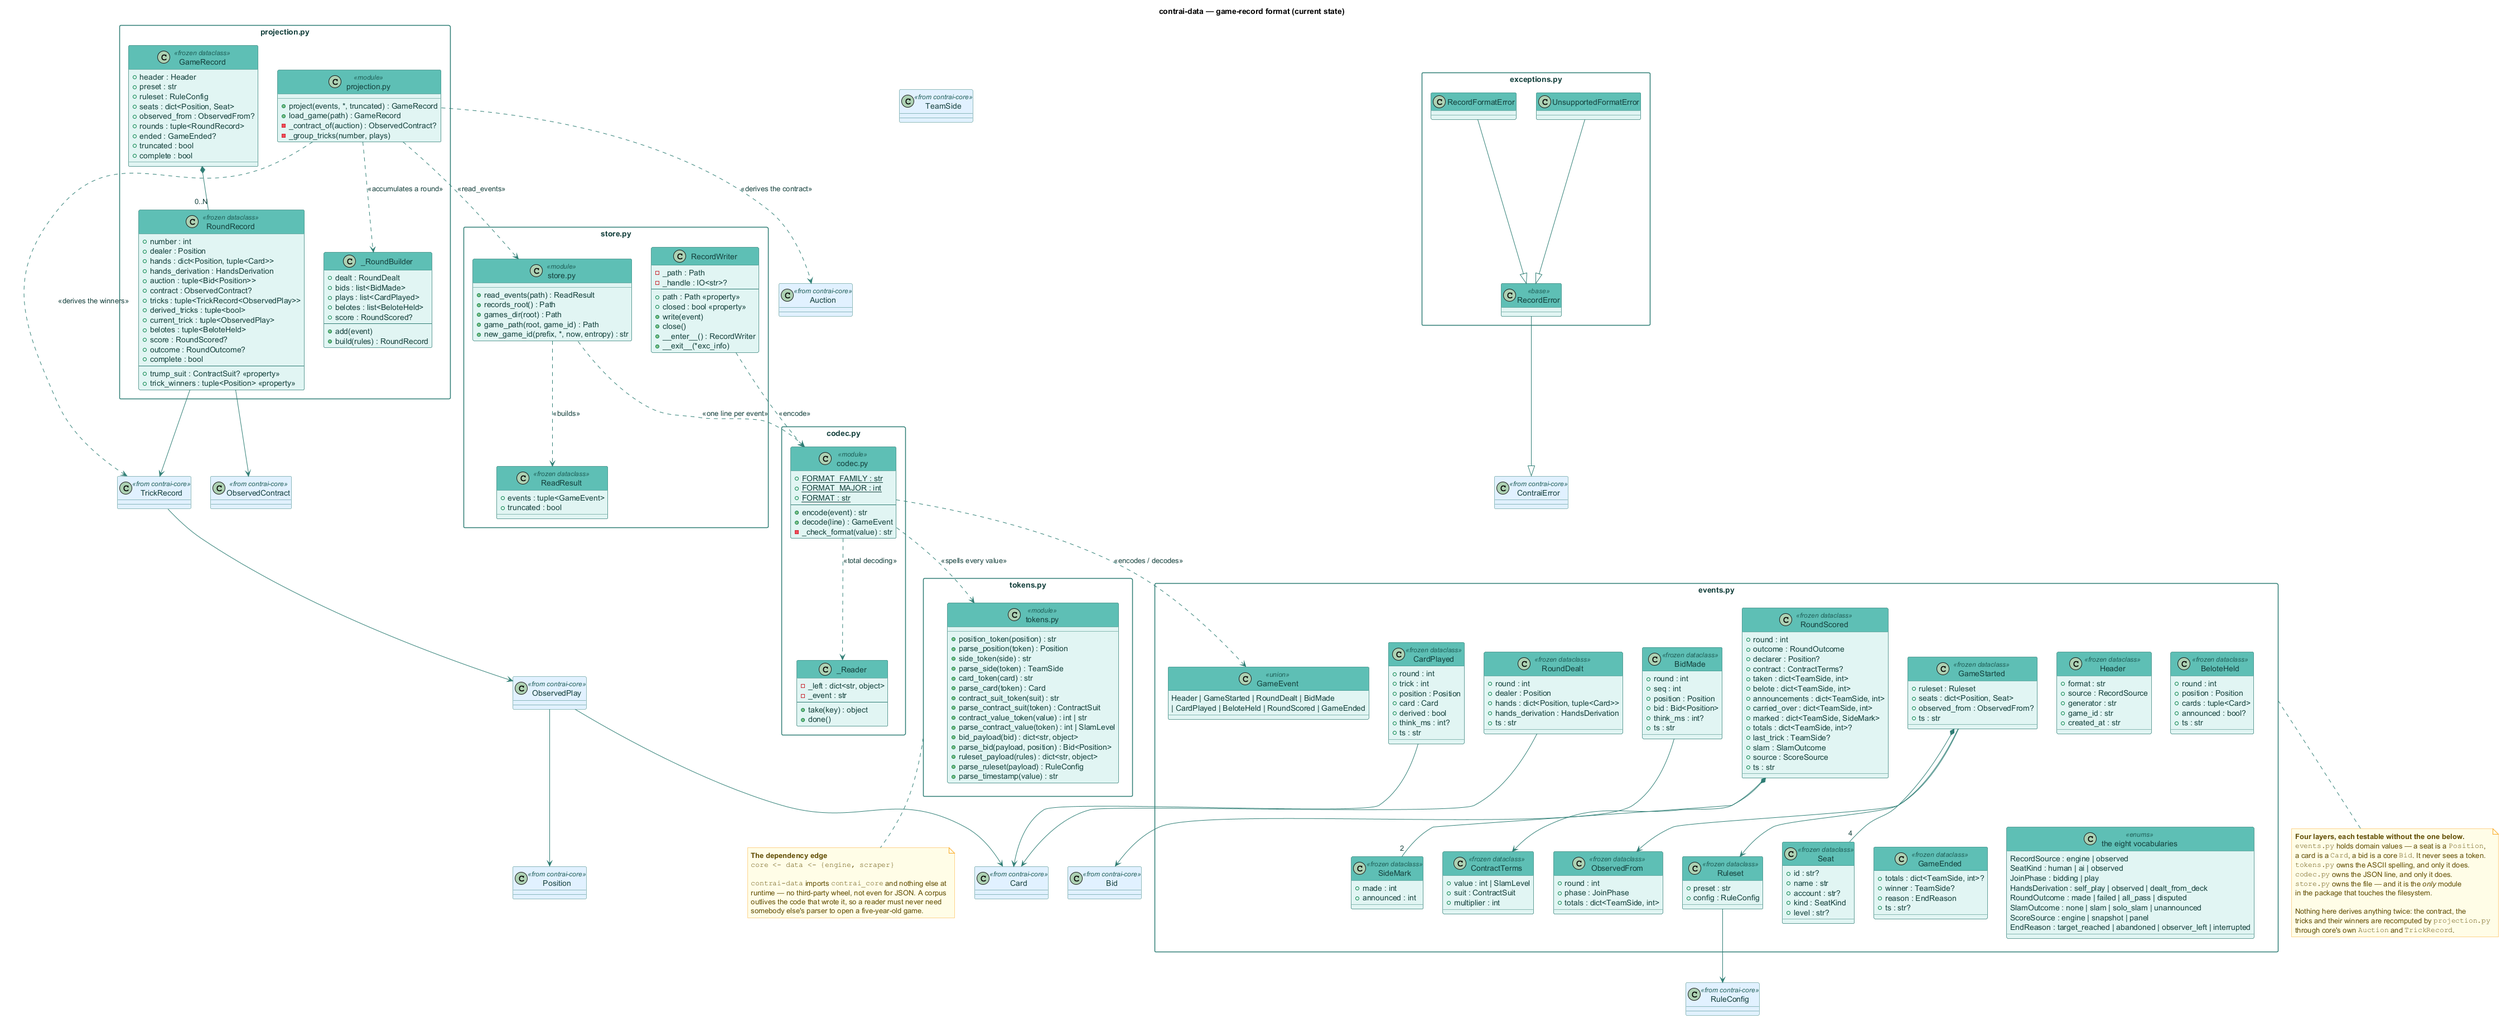
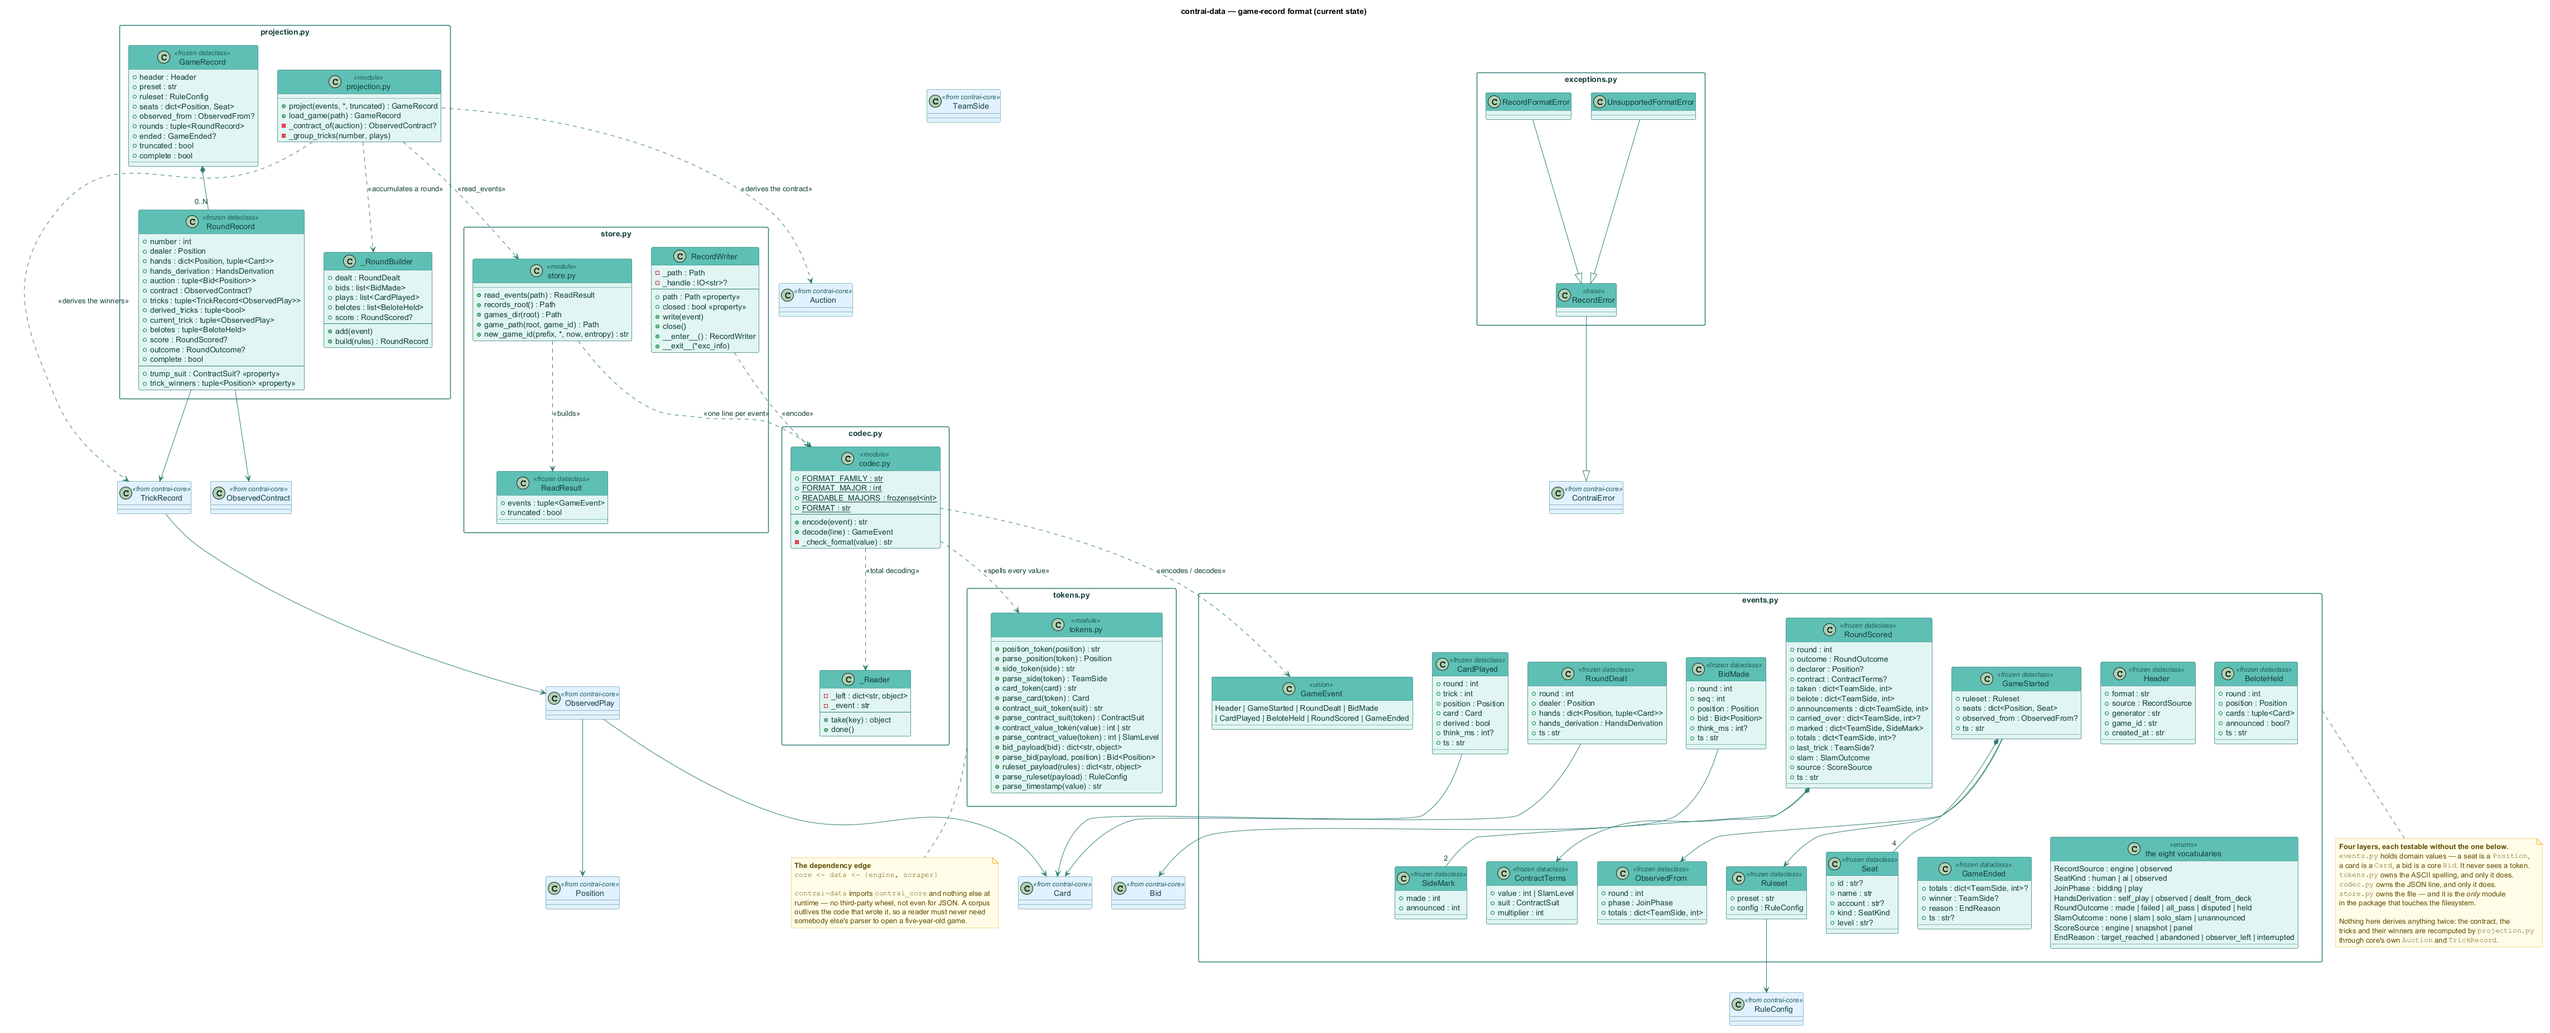
feat(data)!: bump the record format to /2 for held rounds
A held dispute is neither made nor failed, and an observed round can
genuinely not know what it was paid, so a record needs a held outcome
and a carried_over that may be null. Both are things a /1 reader
refuses, and docs/data's policy is that a format change must never read
as damage, so the format moves to contrai-record/2: writers stamp /2,
the reader accepts majors 1 and 2, and an older build handed a /2 file
reports UnsupportedFormatError. The engine recorder now writes the held
outcome through _outcome(score), shared with the verifier, and the pot
each round pays out instead of hard-coded zeros.

BREAKING CHANGE: records are written as contrai-record/2, which builds
from before this change refuse. RoundOutcome gains HELD and
RoundScored.carried_over is Mapping[TeamSide, int] | None - read it
with a None check. recording._outcome takes the RoundScore rather than
contract_made.

diff --git a/packages/contrai-data/src/contrai_data/codec.py b/packages/contrai-data/src/contrai_data/codec.py
@@ -73,9 +73,13 @@ from .tokens import (
 
 #: The format family this build writes and reads.
 FORMAT_FAMILY = "contrai-record"
-#: The major version this build implements. A record naming any other
-#: major is refused outright rather than parsed field by field.
-FORMAT_MAJOR = 1
+#: The major version this build writes.
+FORMAT_MAJOR = 2
+#: Every major this build reads. A ``/1`` record is a ``/2`` record written
+#: before the ``held`` outcome and an unknown carry existed, so it reads
+#: unchanged; any other major is refused outright rather than parsed
+#: field by field.
+READABLE_MAJORS: frozenset[int] = frozenset({1, 2})
 #: The full ``format`` string a header carries.
 FORMAT = f"{FORMAT_FAMILY}/{FORMAT_MAJOR}"
 
@@ -236,7 +240,10 @@ def encode(event: GameEvent) -> str:
                 "taken": _sides(event.taken),
                 "belote": _sides(event.belote),
                 "announcements": _sides(event.announcements),
-                "carried_over": _sides(event.carried_over),
+                "carried_over": (
+                    None if event.carried_over is None
+                    else _sides(event.carried_over)
+                ),
                 "marked": {
                     side_token(side): {"made": mark.made, "announced": mark.announced}
                     for side, mark in event.marked.items()
@@ -769,7 +776,7 @@ def _decode_round_scored(reader: _Reader) -> RoundScored:
         taken=_side_ints(reader.take("taken"), "taken"),
         belote=_side_ints(reader.take("belote"), "belote"),
         announcements=_side_ints(reader.take("announcements"), "announcements"),
-        carried_over=_side_ints(reader.take("carried_over"), "carried_over"),
+        carried_over=_opt_side_ints(reader.take("carried_over"), "carried_over"),
         marked=marked,
         totals=_opt_side_ints(reader.take("totals"), "totals"),
         last_trick=None if raw_last is None else parse_side(raw_last),
@@ -829,7 +836,7 @@ def _check_format(value: object) -> str:
         RecordFormatError: If it is not a ``family/major`` string with a
             numeric major.
         UnsupportedFormatError: If the family is not this one, or the
-            major is not :data:`FORMAT_MAJOR`.
+            major is not in :data:`READABLE_MAJORS`.
     """
 
     if not isinstance(value, str) or value.count("/") != 1:
@@ -847,10 +854,11 @@ def _check_format(value: object) -> str:
             f"Unknown record format {value!r}. This build reads "
             f"{FORMAT_FAMILY!r} records."
         )
-    if int(major) != FORMAT_MAJOR:
+    if int(major) not in READABLE_MAJORS:
+        readable = ", ".join(str(m) for m in sorted(READABLE_MAJORS))
         raise UnsupportedFormatError(
             f"Record format major {major} is not readable by this build, "
-            f"which implements major {FORMAT_MAJOR}."
+            f"which reads majors {readable}."
         )
     return value
 

diff --git a/packages/contrai-data/src/contrai_data/events.py b/packages/contrai-data/src/contrai_data/events.py
@@ -124,12 +124,16 @@ class RoundOutcome(Enum):
         FAILED: It did not.
         ALL_PASS: Nobody bid, so the round was passed out.
         DISPUTED: Two score sources disagreed about the round.
+        HELD: The contract tied and its points went into a pot for the
+            next contract to be won (§7.5). Not DISPUTED, which says two
+            score sources disagreed about a round.
     """
 
     MADE = "made"
     FAILED = "failed"
     ALL_PASS = "all_pass"
     DISPUTED = "disputed"
+    HELD = "held"
 
     def __str__(self) -> str:
         return self.value
@@ -332,7 +336,7 @@ class Header:
     """The record's first line: what this file is and who wrote it.
 
     Attributes:
-        format: ``family/major``, e.g. ``contrai-record/1``. The major
+        format: ``family/major``, e.g. ``contrai-record/2``. The major
             version is what a loader refuses when it cannot read it.
         source: Whether the game was played or watched.
         generator: The producing program and its version.
@@ -565,7 +569,8 @@ class RoundScored:
         taken: Card points each side took.
         belote: Belote points each side marked.
         announcements: Announcement points each side marked.
-        carried_over: Points each side carried in from earlier rounds.
+        carried_over: Points each side was paid from earlier rounds — a
+            held dispute's pot — or ``None`` when the source could not say.
         marked: What each side wrote on the sheet, split made / announced.
         totals: The running score after the round, or ``None`` when the
             source did not report one.
@@ -582,7 +587,7 @@ class RoundScored:
     taken: Mapping[TeamSide, int]
     belote: Mapping[TeamSide, int]
     announcements: Mapping[TeamSide, int]
-    carried_over: Mapping[TeamSide, int]
+    carried_over: Mapping[TeamSide, int] | None
     marked: Mapping[TeamSide, SideMark]
     totals: Mapping[TeamSide, int] | None
     last_trick: TeamSide | None
@@ -620,12 +625,13 @@ class RoundScored:
             ("taken", self.taken),
             ("belote", self.belote),
             ("announcements", self.announcements),
-            ("carried_over", self.carried_over),
             ("marked", self.marked),
         ):
             _require_both_sides(mapping, field)
         if self.totals is not None:
             _require_both_sides(self.totals, "totals")
+        if self.carried_over is not None:
+            _require_both_sides(self.carried_over, "carried_over")
 
 
 @dataclass(frozen=True, slots=True)

diff --git a/packages/contrai-engine/src/contrai_engine/recording.py b/packages/contrai-engine/src/contrai_engine/recording.py
@@ -139,19 +139,24 @@ def _seat(player: Any) -> Seat:
     )
 
 
-def _outcome(contract_made: bool | None) -> RoundOutcome:
-    """Translate ``RoundScore.contract_made`` into a record outcome.
+def _outcome(score: Any) -> RoundOutcome:
+    """Translate a :class:`RoundScore` into a record outcome.
+
+    A held dispute (§7.5) is judged made, but its attack's mark went into
+    the pot rather than onto the sheet, so the record says ``held``.
 
     Args:
-        contract_made: The round's made/failed signal — ``None`` when the
+        score: The round's score; ``contract_made`` is ``None`` when the
             round was passed out.
 
     Returns:
         The matching :class:`~contrai_data.RoundOutcome`.
     """
-    if contract_made is None:
+    if score.contract_made is None:
         return RoundOutcome.ALL_PASS
-    return RoundOutcome.MADE if contract_made else RoundOutcome.FAILED
+    if score.is_held:
+        return RoundOutcome.HELD
+    return RoundOutcome.MADE if score.contract_made else RoundOutcome.FAILED
 
 
 def _slam(contract: Any, score: Any) -> SlamOutcome:
@@ -521,7 +526,7 @@ class RecordingView:
         self._record_write(
             RoundScored(
                 round=round_.round_number,
-                outcome=_outcome(score.contract_made),
+                outcome=_outcome(score),
                 declarer=contract.player.position if contract is not None else None,
                 contract=(
                     ContractTerms(
@@ -535,7 +540,9 @@ class RecordingView:
                 taken=dict(score.card_points),
                 belote=dict(score.belote_points),
                 announcements={side: 0 for side in TeamSide},
-                carried_over={side: 0 for side in TeamSide},
+                carried_over={
+                    side: score.carried_over.get(side, 0) for side in TeamSide
+                },
                 marked={
                     # What the sheet would carry, multiplier included: the
                     # scorer works in components, a record states the figures.

diff --git a/packages/contrai-engine/tests/test_recording.py b/packages/contrai-engine/tests/test_recording.py
@@ -590,6 +590,22 @@ class TestEmission:
             Card(Suit.SPADES, Rank.QUEEN),
         )
 
+    def test_a_paid_pot_is_written_as_carried_over(self, tmp_path):
+        # The stacked belote round is a made contract; hand it an open
+        # dispute pot and its declaring side collects it on the record.
+        game = _stacked_game(BELOTE_HANDS)
+        game.dispute_pot = 161
+        view = RecordingView(_Spy(), tmp_path)
+        view.attach(game, target_score=game.rules.target_score)
+        game.manage_round(view=view)
+        view.on_round_complete(game.current_round, game.scores)
+        view.close_record()
+        _, events = _only_record(tmp_path)
+        (scored,) = _of(events, RoundScored)
+        side = game.current_round.contract.player.position.team_side
+        assert scored.carried_over[side] == 161
+        assert sum(scored.carried_over.values()) == 161
+
     def test_round_scored_mirrors_RoundScore(self, stacked_belote_game):
         game, _, events = stacked_belote_game
         (scored,) = _of(events, RoundScored)
@@ -955,3 +971,25 @@ class TestEndToEnd:
         main()
 
         assert not (home / "records").exists()
+
+
+class TestOutcome:
+    @pytest.mark.parametrize(
+        "made, held, expected",
+        [
+            (None, 0, RoundOutcome.ALL_PASS),
+            (True, 0, RoundOutcome.MADE),
+            (False, 0, RoundOutcome.FAILED),
+            (True, 161, RoundOutcome.HELD),
+        ],
+    )
+    def test_a_score_translates_to_its_outcome(self, made, held, expected):
+        from contrai_engine.model.round import RoundScore
+        from contrai_engine.recording import _outcome
+
+        score = RoundScore(
+            scores={}, contract_made=made, unannounced_slam=None, marks={},
+            belote_points={}, card_points={}, last_trick_side=None,
+            multiplier=1, held=held,
+        )
+        assert _outcome(score) is expected

diff --git a/packages/contrai-data/tests/test_codec.py b/packages/contrai-data/tests/test_codec.py
@@ -151,6 +151,23 @@ SLAM_SCORED = RoundScored(
     ts=TS,
 )
 
+HELD_SCORED = RoundScored(
+    round=4,
+    outcome=RoundOutcome.HELD,
+    declarer=Position.WEST,
+    contract=ContractTerms(value=80, suit=Suit.DIAMONDS, multiplier=1),
+    taken={TeamSide.NS: 81, TeamSide.EW: 81},
+    belote={TeamSide.NS: 0, TeamSide.EW: 0},
+    announcements={TeamSide.NS: 0, TeamSide.EW: 0},
+    carried_over=None,
+    marked={TeamSide.NS: SideMark(81, 0), TeamSide.EW: SideMark(0, 0)},
+    totals={TeamSide.NS: 129, TeamSide.EW: 496},
+    last_trick=None,
+    slam=SlamOutcome.NONE,
+    source=ScoreSource.SNAPSHOT,
+    ts=TS,
+)
+
 EVERY_EVENT = [
     HEADER,
     STARTED,
@@ -201,6 +218,7 @@ EVERY_EVENT = [
     SCORED,
     ALL_PASS,
     SLAM_SCORED,
+    HELD_SCORED,
     GameEnded(
         totals={TeamSide.NS: 1386, TeamSide.EW: 1742},
         winner=TeamSide.EW, reason=EndReason.TARGET_REACHED, ts=TS,
@@ -246,11 +264,18 @@ class TestFormatGate:
     def test_the_current_format_is_accepted(self):
         assert decode(encode(HEADER)).format == FORMAT
 
-    @pytest.mark.parametrize("value", ["contrai-record/2", "contrai-record/0"])
+    @pytest.mark.parametrize("value", ["contrai-record/3", "contrai-record/0"])
     def test_an_unknown_major_is_refused(self, value):
         line = json.dumps({**json.loads(encode(HEADER)), "format": value})
         with pytest.raises(UnsupportedFormatError, match="major"):
             decode(line)
+
+    def test_a_first_major_record_still_reads(self):
+        line = json.dumps({**json.loads(encode(HEADER)), "format": "contrai-record/1"})
+        assert decode(line).format == "contrai-record/1"
+
+    def test_this_build_writes_the_second_major(self):
+        assert FORMAT == "contrai-record/2"
 
     @pytest.mark.parametrize("value", ["some-other-format/1"])
     def test_an_unknown_family_is_refused(self, value):

diff --git a/packages/contrai-data/tests/test_events.py b/packages/contrai-data/tests/test_events.py
@@ -95,6 +95,7 @@ class TestVocabularies:
                     "FAILED": "failed",
                     "ALL_PASS": "all_pass",
                     "DISPUTED": "disputed",
+                    "HELD": "held",
                 },
             ),
             (
@@ -384,6 +385,16 @@ def scored(**overrides) -> RoundScored:
 
 
 class TestRoundScored:
+    def test_accepts_a_held_round(self):
+        assert scored(outcome=RoundOutcome.HELD).outcome is RoundOutcome.HELD
+
+    def test_accepts_an_unknown_carry(self):
+        assert scored(carried_over=None).carried_over is None
+
+    def test_a_stated_carry_still_names_both_sides(self):
+        with pytest.raises(RecordFormatError, match="carried_over"):
+            scored(carried_over={TeamSide.NS: 0})
+
     def test_accepts_a_made_contract(self):
         assert scored().marked[TeamSide.NS].announced == 80
 

diff --git a/packages/contrai-engine/tests/test_replay/test_verify_checks.py b/packages/contrai-engine/tests/test_replay/test_verify_checks.py
@@ -556,6 +556,16 @@ class TestCheckBelote:
 
 
 class TestCheckScore:
+    def test_a_held_round_agrees_with_a_held_record(self):
+        import dataclasses
+        from contrai_data import RoundOutcome
+
+        check = self._run(
+            _Scored(outcome=RoundOutcome.HELD),
+            score=dataclasses.replace(_score(), held=161),
+        )
+        assert "the round resolved differently" not in _details(check)
+
     @staticmethod
     def _run(recorded, *, score=None, contract=None, rules=None):
         check = _RoundCheck(_Record(score=recorded))

diff --git a/packages/contrai-data/src/contrai_data/__init__.py b/packages/contrai-data/src/contrai_data/__init__.py
@@ -54,6 +54,7 @@ from .codec import (
     FORMAT,
     FORMAT_FAMILY,
     FORMAT_MAJOR,
+    READABLE_MAJORS,
     encode,
     decode,
 )
@@ -117,6 +118,7 @@ __all__: list[str] = [
     "FORMAT",
     "FORMAT_FAMILY",
     "FORMAT_MAJOR",
+    "READABLE_MAJORS",
     "encode",
     "decode",
     "ReadResult",

diff --git a/packages/contrai-engine/src/contrai_engine/replay/verify.py b/packages/contrai-engine/src/contrai_engine/replay/verify.py
@@ -527,7 +527,7 @@ def _check_score(check: _RoundCheck, round_: Any) -> None:
         return
 
     contract = round_.contract
-    outcome = _outcome(score.contract_made)
+    outcome = _outcome(score)
     if outcome is not recorded.outcome:
         check.fault(
             MismatchKind.SCORE,

diff --git a/docs/data/index.md b/docs/data/index.md
@@ -57,10 +57,17 @@ One UTF-8 file per game, one event per line, `.jsonl`. The first line is always 
 file is **append-only**, so a producer never rewrites what it has already written and a reader can
 follow a game as it happens.
 
-The header carries a `format` field spelled `family/major` — `contrai-record/1`. A loader that
-meets a major it does not implement refuses the file outright with `UnsupportedFormatError`, rather
-than working through it and producing a pile of confusing field errors. That is the whole point of
-putting a version in the file: a *format change* and a *corrupt file* must not look alike.
+The header carries a `format` field spelled `family/major` — `contrai-record/2`. A loader reads
+every major it implements — 1 and 2, since a `/1` record is a `/2` record written before the `held`
+outcome and an unknown carry existed — and refuses any other outright with `UnsupportedFormatError`,
+rather than working through it and producing a pile of confusing field errors. That is the whole
+point of putting a version in the file: a *format change* and a *corrupt file* must not look alike.
+
+Two `round_scored` values need reading with care. `held` is §7.5's dispute under the `held` table
+option: the contract tied, the attack's points went into a pot rather than onto the sheet, and they
+surface as the next winning round's `carried_over`. It is *not* `disputed`, which says two score
+sources disagreed about a round. And `carried_over` is `null` when the source could not say — an
+observed round whose running total before it was never read — rather than a zero it never measured.
 
 ## The event vocabulary
 
@@ -181,7 +188,7 @@ plausible.
 | `BidMade`      | `seq >= 1`, and `bid.player is position`        | A bid filed under the wrong seat                       |
 | `CardPlayed`   | `1 <= trick <= 8`                               | A trick counter that ran off its ladder                |
 | `BeloteHeld`   | Exactly the King and Queen of one suit          | A pair assembled from two suits, or a K + J            |
-| `RoundScored`  | Declarer ⇔ contract; `all_pass` ⇔ no contract; every side-keyed field names both sides | A score line that contradicts itself |
+| `RoundScored`  | Declarer ⇔ contract; `all_pass` ⇔ no contract; every side-keyed field names both sides (`totals` and `carried_over` may be null) | A score line that contradicts itself |
 
 The 32-distinct-cards check is the one worth singling out. A parser that repeats a packet produces
 four hands that are the right *shape* — four seats, eight cards each — and wrong. Without this

diff --git a/CHANGELOG.md b/CHANGELOG.md
@@ -16,6 +16,7 @@ All five workspace packages (`contrai-core`, `contrai-data`, `contrai-engine`, `
 
 ### Changed
 
+- (data) **BREAKING:** Records are `contrai-record/2`: a `held` outcome and a nullable `carried_over`, which the engine now writes for real. `/1` still loads; older builds refuse `/2`. See [data docs](docs/data/index.md).
 - (engine) **BREAKING:** `sweep_substitute(tag)` takes the ruleset, and a doubled sweep is now tagged `UnannouncedSlam`. Call `sweep_substitute(tag, rules)`; re-parse older scraped records.
 
 ### Fixed
